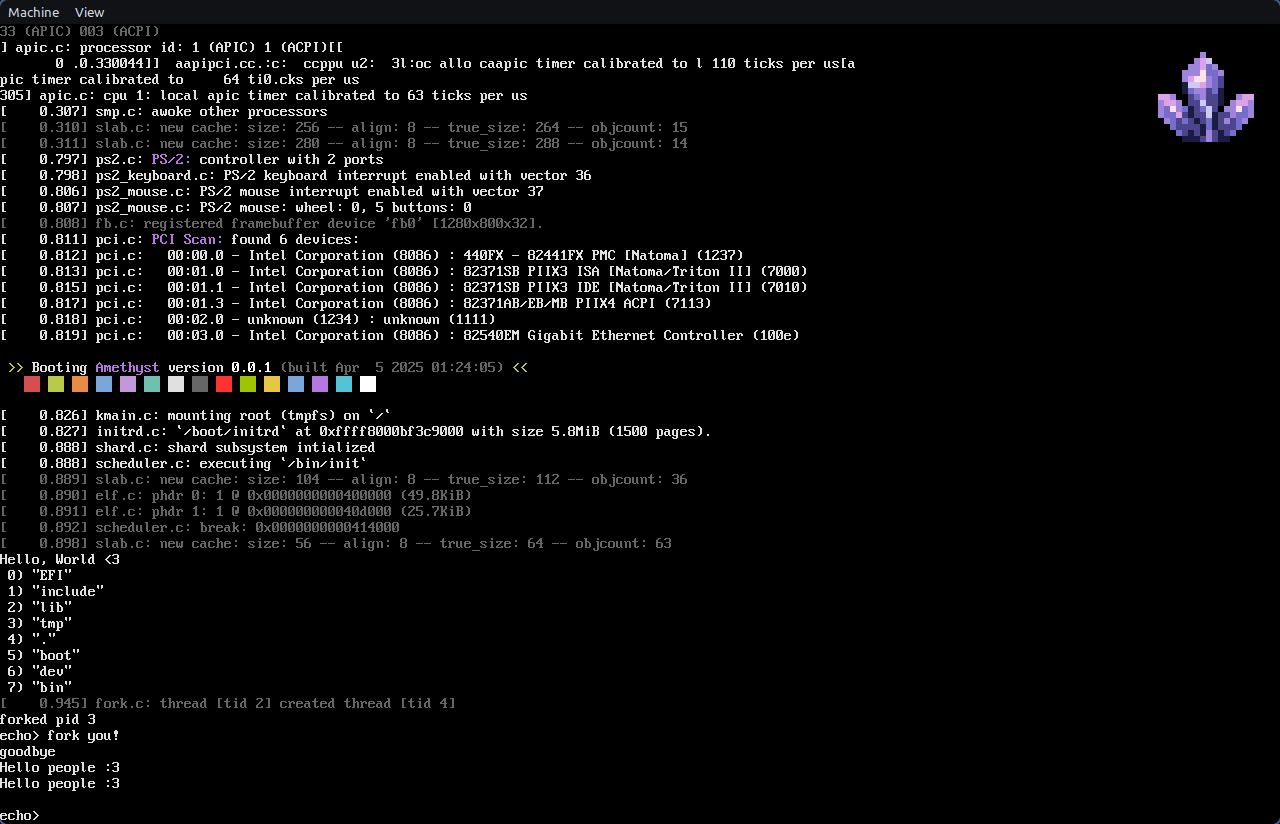
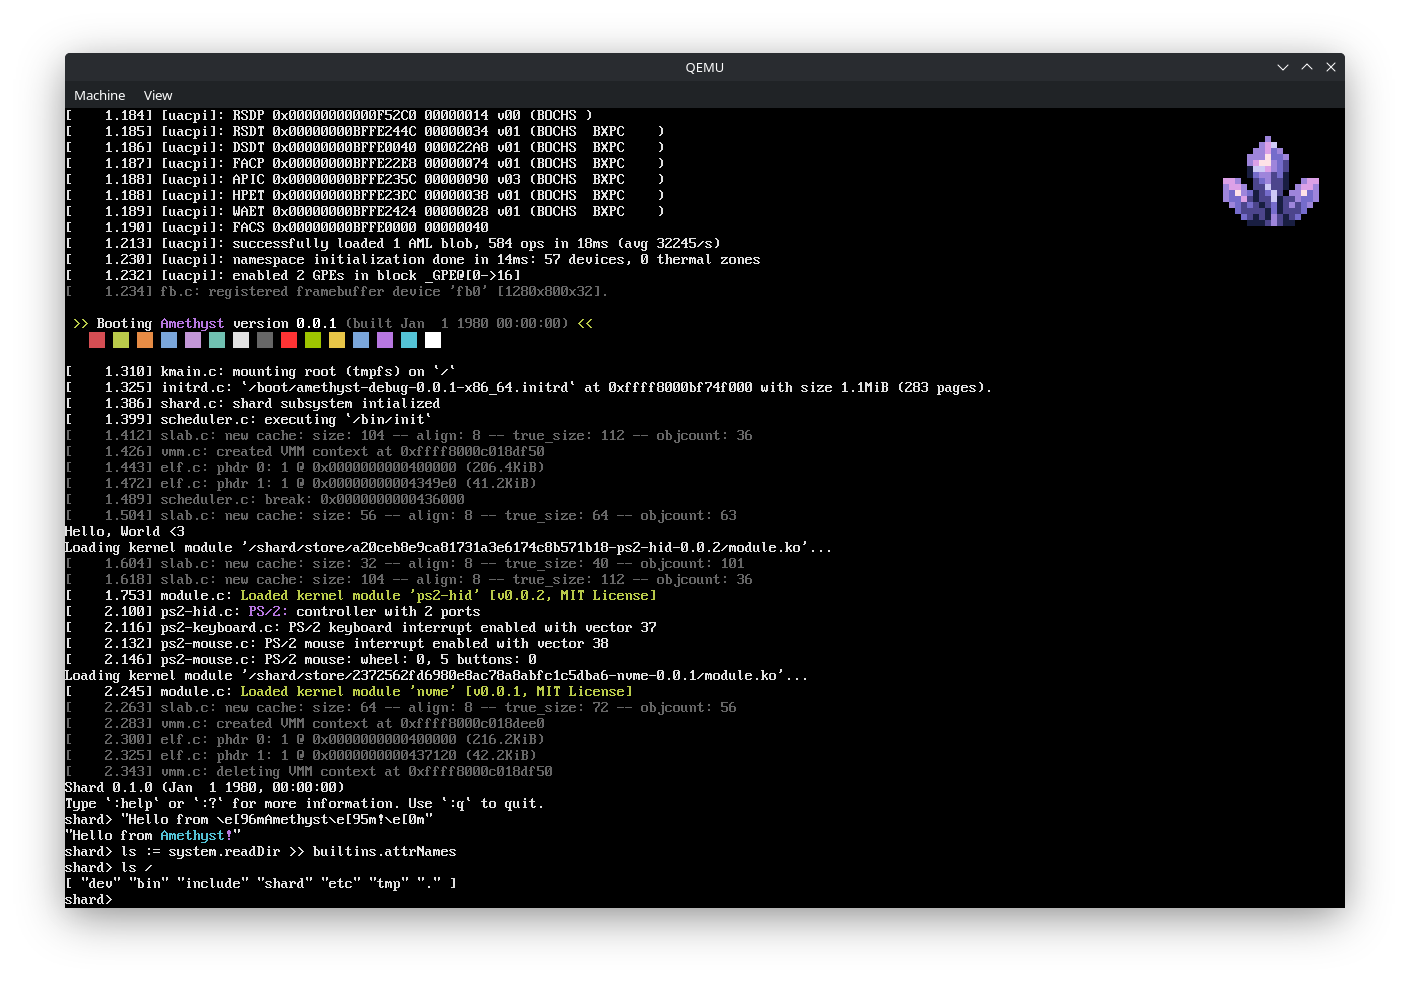
kernel, meta: remove excessive padding in coredumps, update readme screenshot

diff --git a/kernel/sys/coredump.c b/kernel/sys/coredump.c
@@ -10,8 +10,8 @@ void core_dump(struct proc *proc, struct siginfo *info) {
     klog(INFO, "+++ Core dump for process [pid %d] +++", proc->pid);
 
     if(info) {
-        klog(INFO, "\tSignal: %s [%d]", strsignal(info->si_signo), info->si_signo);
-        klog(INFO, "\tFault address: %p", (void*) info->si_attrs.fault.addr);
+        klog(INFO, "Signal: %s [%d]", strsignal(info->si_signo), info->si_signo);
+        klog(INFO, "Fault address: %p", (void*) info->si_attrs.fault.addr);
     }
 
     klog(INFO, "--- Core dump end ---");
